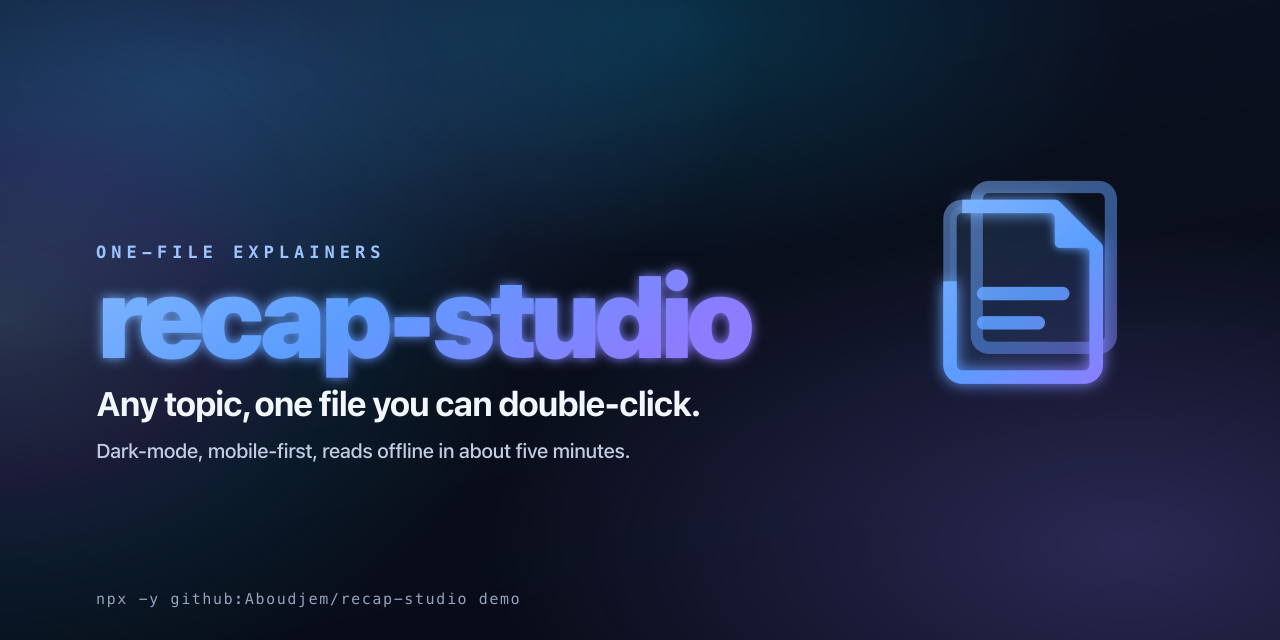
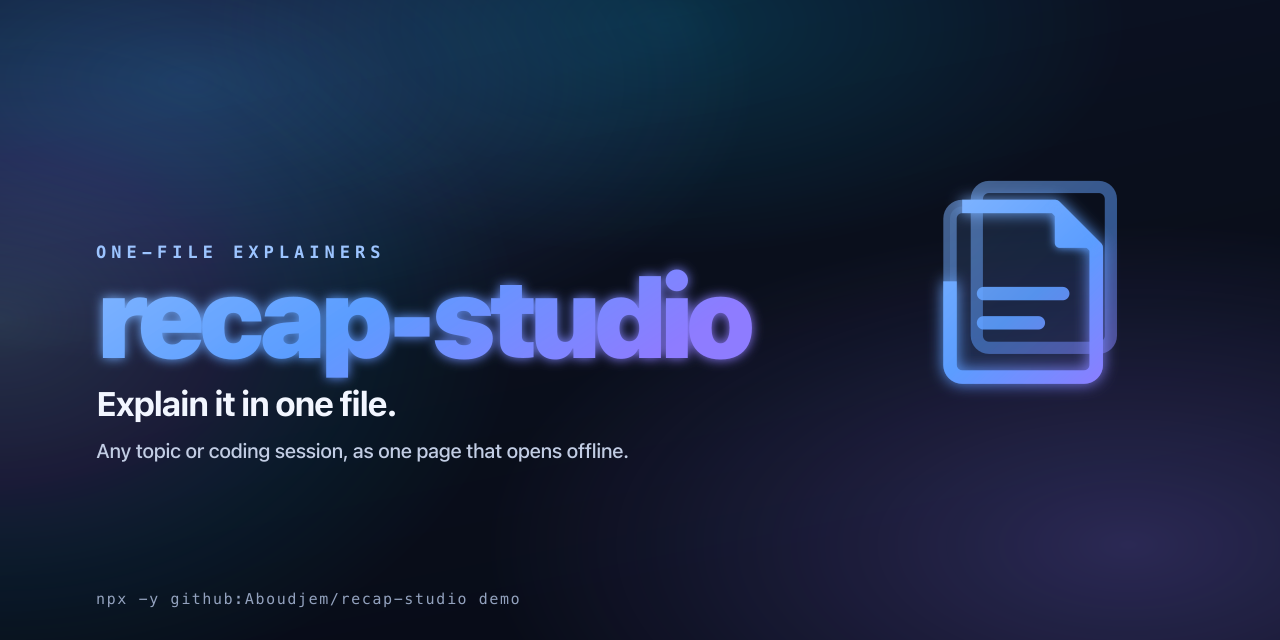
fix: guard secret edits too, clearer first screen (0.6.2)
block-secret-writes ran on the Write tool only, so an Edit of an
existing .env in a recap project went through. It now runs on Write,
Edit, MultiEdit and NotebookEdit and reads notebook_path too. It stays
silent outside a recap-studio project. New tests cover both cases.

The README first screen now says why: a tagline, the situation it
solves, a "Why use it" block with proof, and the score and Mermaid
limits next to the promise. Translations, manifests, server.json,
llms.txt, AGENTS.md, the Pages site, the hero SVGs and the social
preview carry the same wording. Test count is 113.

Changed region(s): [[0.0625, 0.5938, 0.5625, 0.6562], [0.0625, 0.6875, 0.5, 0.7188]]

diff --git a/site/index.html b/site/index.html
@@ -3,9 +3,9 @@
 <head>
   <meta charset="utf-8" />
   <meta name="viewport" content="width=device-width, initial-scale=1" />
-  <title>Recap Studio - one self-contained explainer page from any topic or coding session</title>
-  <meta name="description" content="Turn any topic or coding session into a beautiful, dark-mode, mobile-first explainer. One self-contained HTML file, inlined CSS, zero JavaScript, opens offline with a double-click. No server, no internet, no dependencies." />
-  <meta property="og:title" content="Recap Studio - self-contained offline explainer pages" />
+  <title>Recap Studio: one page you can email, attach to a PR, or read on a plane</title>
+  <meta name="description" content="Turns a topic or your git session into one HTML explainer. Double-click to open, works offline, no JavaScript. One file to attach or send." />
+  <meta property="og:title" content="Recap Studio: explain it in one file" />
   <meta property="og:description" content="Turn a topic or a git diff into one dark-mode HTML file that opens offline with a double-click. Cited sources, inline SVG diagrams, zero JavaScript." />
   <meta property="og:image" content="assets/page-preview.png" />
   <style>
@@ -67,7 +67,7 @@
   <header class="wrap">
     <img class="logo" src="assets/logo-dark.svg" alt="Recap Studio" onerror="this.style.display='none'" />
     <h1>Recap Studio</h1>
-    <p class="tagline">Turn any topic or coding session into a beautiful, dark-mode, mobile-first explainer you can double-click to open. No server, no internet, no dependencies.</p>
+    <p class="tagline">One page you can email, attach to a PR, or read on a plane. Recap Studio turns a topic or your coding session into one HTML file that opens with a double-click, offline, with no JavaScript.</p>
     <div class="cta">
       <a class="btn primary" href="https://github.com/Aboudjem/recap-studio">View on GitHub</a>
       <a class="btn" href="sample-recap.html">See a real sample page</a>

diff --git a/packages/cli/src/index.ts b/packages/cli/src/index.ts
@@ -27,7 +27,7 @@ import { parseRecapPageContent } from "@recap-studio/content-pipeline";
 import { runValidation, reportMarkdown, reportJson, reportPasses } from "@recap-studio/validation";
 
 /** Kept equal to the repo version by a test. */
-const VERSION = "0.6.1";
+const VERSION = "0.6.2";
 
 /** The bundler inlines the example content here. Unbundled, it is read from the repo. */
 declare const __RECAP_EXAMPLE__: string | undefined;

diff --git a/packages/mcp-server/src/index.ts b/packages/mcp-server/src/index.ts
@@ -21,7 +21,7 @@ import { createInterface } from "node:readline";
 import { tools, type ToolCall } from "./tools.js";
 
 /** Reported in `initialize`. Kept equal to the repo version by a test. */
-export const SERVER_VERSION = "0.6.1";
+export const SERVER_VERSION = "0.6.2";
 
 /** Protocol revisions this server speaks, newest first. */
 const PROTOCOL_VERSIONS = ["2025-06-18", "2025-03-26", "2024-11-05"];

diff --git a/README.md b/README.md
@@ -1,7 +1,7 @@
 <picture>
   <source media="(prefers-color-scheme: dark)" srcset="https://raw.githubusercontent.com/Aboudjem/recap-studio/main/.github/assets/hero-dark.svg">
   <source media="(prefers-color-scheme: light)" srcset="https://raw.githubusercontent.com/Aboudjem/recap-studio/main/.github/assets/hero-light.svg">
-  <img alt="Recap Studio: any topic, one file you can double-click" src="https://raw.githubusercontent.com/Aboudjem/recap-studio/main/.github/assets/hero-dark.svg" width="100%">
+  <img alt="Recap Studio: one page you can email, attach to a PR, or read on a plane" src="https://raw.githubusercontent.com/Aboudjem/recap-studio/main/.github/assets/hero-dark.svg" width="100%">
 </picture>
 
 <p align="center">
@@ -18,8 +18,9 @@
   <a href="READMEs/fr.md">Français</a>
 </p>
 
+**One page you can email, attach to a PR, or read on a plane.**
+
 Recap Studio turns a topic or a coding session into one HTML page you open with a double-click.
-The page works offline. It has no JavaScript and makes no network request.
 
 Try it now, with no clone and no install. This is real output from 2026-11-17, with the path shortened:
 
@@ -38,6 +39,18 @@ Next:
 ```
 
 <img alt="A rendered Recap Studio page: dark hero, a one-sentence answer, and a numbered five-step reading path" src="https://raw.githubusercontent.com/Aboudjem/recap-studio/main/.github/assets/page-preview.png" width="100%">
+
+Your lead asks what changed this week. You have 40 commits, a chat log, and no page you can just send.
+Or someone asks what a topic means, and you paste ten links.
+Recap Studio gives you one file instead. It has no JavaScript and makes no network request.
+
+## Why use it
+
+- **Opens anywhere.** One file, 0 script tags, all CSS inlined. The demo above prints both.
+- **Checked before you send it.** Seven offline checks score the page, with no model. Add `--fail-under 8` to refuse a weak page.
+- **Recaps your own work.** `/recap session` reads your git diff and commits and turns them into a page your team can read.
+
+The score checks shape, not truth, so read the sources first. Mermaid diagrams show as source offline; use SVG diagrams instead.
 
 ## Install
 
@@ -113,7 +126,7 @@ The CLI and the MCP server are one committed file, `bin/recap.mjs`, with no depe
 | :----------------- | :----------------------------------------------------------------------------------------------------------- |
 | Skills and agents  | Write files under `artifacts/` in your project. Research uses your agent's own web search, when it has one.                    |
 | CLI and MCP server | Write the page you ask for. No network call. 11 MCP tools, listed in [docs/mcp-tools.md](docs/mcp-tools.md). |
-| Plugin hooks       | Act only in a recap-studio project. They block secret writes, destructive git and unchecked deploys there.   |
+| Plugin hooks       | Act only in a recap-studio project. They block writes and edits to secret files, destructive git and unchecked deploys there. |
 | Deploy and email   | Never run by the plugin. The MCP deploy tool returns a command to run yourself. The email tool returns a draft.  |
 
 ## What you get
@@ -142,7 +155,7 @@ Each number below comes from a command you can run in a clone.
 
 | Claim                               | Number  | Command                                                                           |
 | :---------------------------------- | :------ | :-------------------------------------------------------------------------------- |
-| Tests pass                          | 109     | `npm run test:count` (runs `npm test`, prints the total)                          |
+| Tests pass                          | 113     | `npm run test:count` (runs `npm test`, prints the total)                          |
 | Script tags in a rendered page      | 0       | `node bin/recap.mjs demo`                                                         |
 | Demo page size                      | 49.8 KB | `node bin/recap.mjs demo`                                                         |
 | Heuristic score of the demo content | 9.7/10  | `node bin/recap.mjs validate fixtures/topics/latest-ai-models.json`               |

diff --git a/READMEs/fr.md b/READMEs/fr.md
@@ -1,7 +1,7 @@
 <picture>
   <source media="(prefers-color-scheme: dark)" srcset="https://raw.githubusercontent.com/Aboudjem/recap-studio/main/.github/assets/hero-dark.svg">
   <source media="(prefers-color-scheme: light)" srcset="https://raw.githubusercontent.com/Aboudjem/recap-studio/main/.github/assets/hero-light.svg">
-  <img alt="Recap Studio: any topic, one file you can double-click" src="https://raw.githubusercontent.com/Aboudjem/recap-studio/main/.github/assets/hero-dark.svg" width="100%">
+  <img alt="Recap Studio : une page à envoyer par e-mail, à joindre à une PR ou à lire dans l'avion" src="https://raw.githubusercontent.com/Aboudjem/recap-studio/main/.github/assets/hero-dark.svg" width="100%">
 </picture>
 
 <p align="center">
@@ -18,8 +18,9 @@
   <b>Français</b>
 </p>
 
+**Une page à envoyer par e-mail, à joindre à une PR ou à lire dans l'avion.**
+
 Recap Studio transforme un sujet ou une session de code en une page HTML qui s'ouvre d'un double-clic.
-La page fonctionne hors ligne. Elle n'a pas de JavaScript et ne fait aucune requête réseau.
 
 Essayez maintenant, sans clone ni installation. Sortie réelle du 2026-11-17, chemin raccourci :
 
@@ -38,6 +39,18 @@ Next:
 ```
 
 <img alt="Une page Recap Studio rendue : en-tête sombre, une réponse en une phrase et un parcours de lecture en cinq étapes" src="https://raw.githubusercontent.com/Aboudjem/recap-studio/main/.github/assets/page-preview.png" width="100%">
+
+Votre lead demande ce qui a changé cette semaine. Vous avez 40 commits, un historique de chat, et aucune page à envoyer.
+Ou quelqu'un demande ce que veut dire un sujet, et vous collez dix liens.
+Recap Studio vous donne un seul fichier à la place. Il n'a pas de JavaScript et ne fait aucune requête réseau.
+
+## Pourquoi l'utiliser
+
+- **Elle s'ouvre partout.** Un fichier, 0 balise script, tout le CSS en ligne. La démo ci-dessus affiche les deux.
+- **Elle est vérifiée avant de partir.** Sept contrôles hors ligne notent la page, sans modèle. Ajoutez `--fail-under 8` pour refuser une page faible.
+- **Elle résume votre propre travail.** `/recap session` lit votre diff git et vos commits et en fait une page que votre équipe peut lire.
+
+La note vérifie la forme, pas la vérité : lisez d'abord les sources. Hors ligne, les diagrammes Mermaid s'affichent en code source ; utilisez des diagrammes SVG.
 
 ## Installation
 
@@ -109,7 +122,7 @@ La CLI et le serveur MCP sont un seul fichier versionné, `bin/recap.mjs`, sans 
 |:--|:--|
 | Skills et agents | Écrivent des fichiers sous `artifacts/` dans votre projet. La recherche utilise la recherche web de votre agent, s'il en a une. |
 | CLI et serveur MCP | Écrivent la page demandée. Aucun appel réseau. 11 outils MCP, listés dans [docs/mcp-tools.md](../docs/mcp-tools.md). |
-| Hooks du plugin | N'agissent que dans un projet recap-studio. Ils y bloquent l'écriture de secrets, le git destructif et les déploiements non vérifiés. |
+| Hooks du plugin | N'agissent que dans un projet recap-studio. Ils y bloquent l'écriture et la modification de fichiers secrets, le git destructif et les déploiements non vérifiés. |
 | Déploiement et e-mail | Jamais lancés par le plugin. L'outil MCP de déploiement renvoie une commande ; celui d'e-mail renvoie un brouillon. |
 
 ## Ce que vous obtenez
@@ -138,7 +151,7 @@ Chaque nombre ci-dessous sort d'une commande que vous pouvez lancer dans un clon
 
 | Affirmation | Nombre | Commande |
 |:--|:--|:--|
-| Tests qui passent | 109 | `npm run test:count` |
+| Tests qui passent | 113 | `npm run test:count` |
 | Balises script dans une page rendue | 0 | `node bin/recap.mjs demo` |
 | Taille de la page de démo | 49.8 KB | `node bin/recap.mjs demo` |
 | Score heuristique du contenu de démo | 9.7/10 | `node bin/recap.mjs validate fixtures/topics/latest-ai-models.json` |

diff --git a/READMEs/es.md b/READMEs/es.md
@@ -1,7 +1,7 @@
 <picture>
   <source media="(prefers-color-scheme: dark)" srcset="https://raw.githubusercontent.com/Aboudjem/recap-studio/main/.github/assets/hero-dark.svg">
   <source media="(prefers-color-scheme: light)" srcset="https://raw.githubusercontent.com/Aboudjem/recap-studio/main/.github/assets/hero-light.svg">
-  <img alt="Recap Studio: any topic, one file you can double-click" src="https://raw.githubusercontent.com/Aboudjem/recap-studio/main/.github/assets/hero-dark.svg" width="100%">
+  <img alt="Recap Studio: una página que puedes enviar por correo, adjuntar a un PR o leer en un avión" src="https://raw.githubusercontent.com/Aboudjem/recap-studio/main/.github/assets/hero-dark.svg" width="100%">
 </picture>
 
 <p align="center">
@@ -18,8 +18,9 @@
   <a href="fr.md">Français</a>
 </p>
 
+**Una página que puedes enviar por correo, adjuntar a un PR o leer en un avión.**
+
 Recap Studio convierte un tema o una sesión de código en una página HTML que se abre con doble clic.
-La página funciona sin conexión. No tiene JavaScript y no hace ninguna petición de red.
 
 Pruébalo ahora, sin clonar ni instalar. Salida real del 2026-11-17, con la ruta acortada:
 
@@ -38,6 +39,18 @@ Next:
 ```
 
 <img alt="Una página de Recap Studio renderizada: cabecera oscura, una respuesta en una frase y una ruta de lectura de cinco pasos" src="https://raw.githubusercontent.com/Aboudjem/recap-studio/main/.github/assets/page-preview.png" width="100%">
+
+Tu lead pregunta qué cambió esta semana. Tienes 40 commits, un historial de chat y ninguna página que puedas enviar.
+O alguien pregunta qué significa un tema, y pegas diez enlaces.
+Recap Studio te da un solo archivo en su lugar. No tiene JavaScript y no hace ninguna petición de red.
+
+## Por qué usarlo
+
+- **Se abre en cualquier parte.** Un archivo, 0 etiquetas script, todo el CSS en línea. La demo de arriba imprime ambos datos.
+- **Se revisa antes de salir.** Siete comprobaciones sin conexión puntúan la página, sin modelo. Añade `--fail-under 8` para rechazar una página floja.
+- **Resume tu propio trabajo.** `/recap session` lee tu diff de git y tus commits y los convierte en una página que tu equipo puede leer.
+
+La puntuación revisa la forma, no la verdad: lee primero las fuentes. Sin conexión, los diagramas Mermaid se ven como código fuente; usa diagramas SVG.
 
 ## Instalación
 
@@ -109,7 +122,7 @@ La CLI y el servidor MCP son un único archivo versionado, `bin/recap.mjs`, sin 
 |:--|:--|
 | Skills y agentes | Escriben archivos bajo `artifacts/` en tu proyecto. La investigación usa la búsqueda web de tu agente, si tiene una. |
 | CLI y servidor MCP | Escriben la página que pides. Ninguna llamada de red. 11 herramientas MCP, listadas en [docs/mcp-tools.md](../docs/mcp-tools.md). |
-| Hooks del plugin | Solo actúan en un proyecto recap-studio. Allí bloquean la escritura de secretos, el git destructivo y los despliegues sin revisar. |
+| Hooks del plugin | Solo actúan en un proyecto recap-studio. Allí bloquean la escritura y la edición de archivos secretos, el git destructivo y los despliegues sin revisar. |
 | Despliegue y correo | El plugin nunca los ejecuta. La herramienta MCP de despliegue devuelve un comando; la de correo devuelve un borrador. |
 
 ## Qué obtienes
@@ -138,7 +151,7 @@ Cada número de abajo sale de un comando que puedes ejecutar en un clon.
 
 | Afirmación | Número | Comando |
 |:--|:--|:--|
-| Tests que pasan | 109 | `npm run test:count` |
+| Tests que pasan | 113 | `npm run test:count` |
 | Etiquetas script en una página renderizada | 0 | `node bin/recap.mjs demo` |
 | Tamaño de la página de demo | 49.8 KB | `node bin/recap.mjs demo` |
 | Puntuación heurística del contenido de demo | 9.7/10 | `node bin/recap.mjs validate fixtures/topics/latest-ai-models.json` |

diff --git a/CHANGELOG.md b/CHANGELOG.md
@@ -7,6 +7,30 @@ and this project adheres to [Semantic Versioning](https://semver.org/spec/v2.0.0
 
 ## [Unreleased]
 
+## [0.6.2] - 2026-11-17
+
+A clearer first screen, true wording, and one hook fix.
+
+### Fixed
+
+- **`block-secret-writes` now guards edits, not only new files.** The hook was wired to the
+  `Write` tool only, so an `Edit` of an existing `.env` in a recap project went through. It now
+  runs on `Write`, `Edit`, `MultiEdit` and `NotebookEdit`, and reads `notebook_path` too. It
+  stays silent outside a recap-studio project. New tests in `hooks/block-secret-writes.test.mjs`.
+
+### Changed
+
+- **README first screen says why.** A tagline, the situation it solves, and a "Why use it" block
+  with three benefits and their proof. The score and Mermaid limits now sit next to the promise.
+  The four translations match.
+- **Descriptions.** The plugin manifests, `package.json`, `server.json`, `llms.txt`, `AGENTS.md`
+  and the Pages site say the same thing: one page you can email, attach to a PR, or read offline.
+  `AGENTS.md` no longer promises a page "in under 5 minutes".
+- **Visuals.** The hero SVGs and the social preview carry the new headline. The architecture
+  diagram shows the current test count.
+
+No change to rendering, scoring, the CLI or the MCP tools.
+
 ## [0.6.1] - 2026-11-17
 
 Fixes from an independent review of 0.6.0. The tools now say exactly what they do.

diff --git a/hooks/README.md b/hooks/README.md
@@ -6,7 +6,7 @@ official contract.
 
 | Hook                     | When                | Purpose                                                   |
 | ------------------------ | ------------------- | --------------------------------------------------------- |
-| `block-secret-writes`    | `PreToolUse(Write)` | Refuse writes to `.env*`, `secrets/**`, keys, PEMs        |
+| `block-secret-writes`    | `PreToolUse` on Write, Edit, MultiEdit, NotebookEdit | Refuse writes and edits to `.env*`, `secrets/**`, keys, PEMs        |
 | `block-destructive-git`  | `PreToolUse(Bash)`  | Refuse `git push`, `reset --hard`, `rebase`, `clean -fdx` |
 | `validate-before-deploy` | `PreToolUse(Bash)`  | Block `vercel --prod` unless config + confirmation        |
 | `format-after-edit`      | `PostToolUse(W/E)`  | Best-effort Prettier on the touched file                  |

diff --git a/AGENTS.md b/AGENTS.md
@@ -6,7 +6,7 @@ Guidance for AI coding agents (Codex, GitHub Copilot Workspace, Claude Code, and
 
 ## What This Project Is
 
-**Recap Studio** is a Claude Code plugin (distributed via the Aboudjem/10x marketplace) that turns any topic query or git diff into a cited, dark-mode, mobile-first one-page explainer in under 5 minutes. It ships as a hybrid architecture:
+**Recap Studio** is a Claude Code plugin (distributed via the Aboudjem/10x marketplace) that turns a topic or your git session into one cited, dark-mode HTML explainer. The page opens with a double-click, works offline, and has no JavaScript. It ships as a hybrid architecture:
 
 - **Skills**: the user-facing slash commands (`/recap`, `/recap session`, `/recap setup`, `/recap validate`)
 - **Specialist agents**: 13 Markdown-defined agent prompts that the skill orchestrator dispatches
